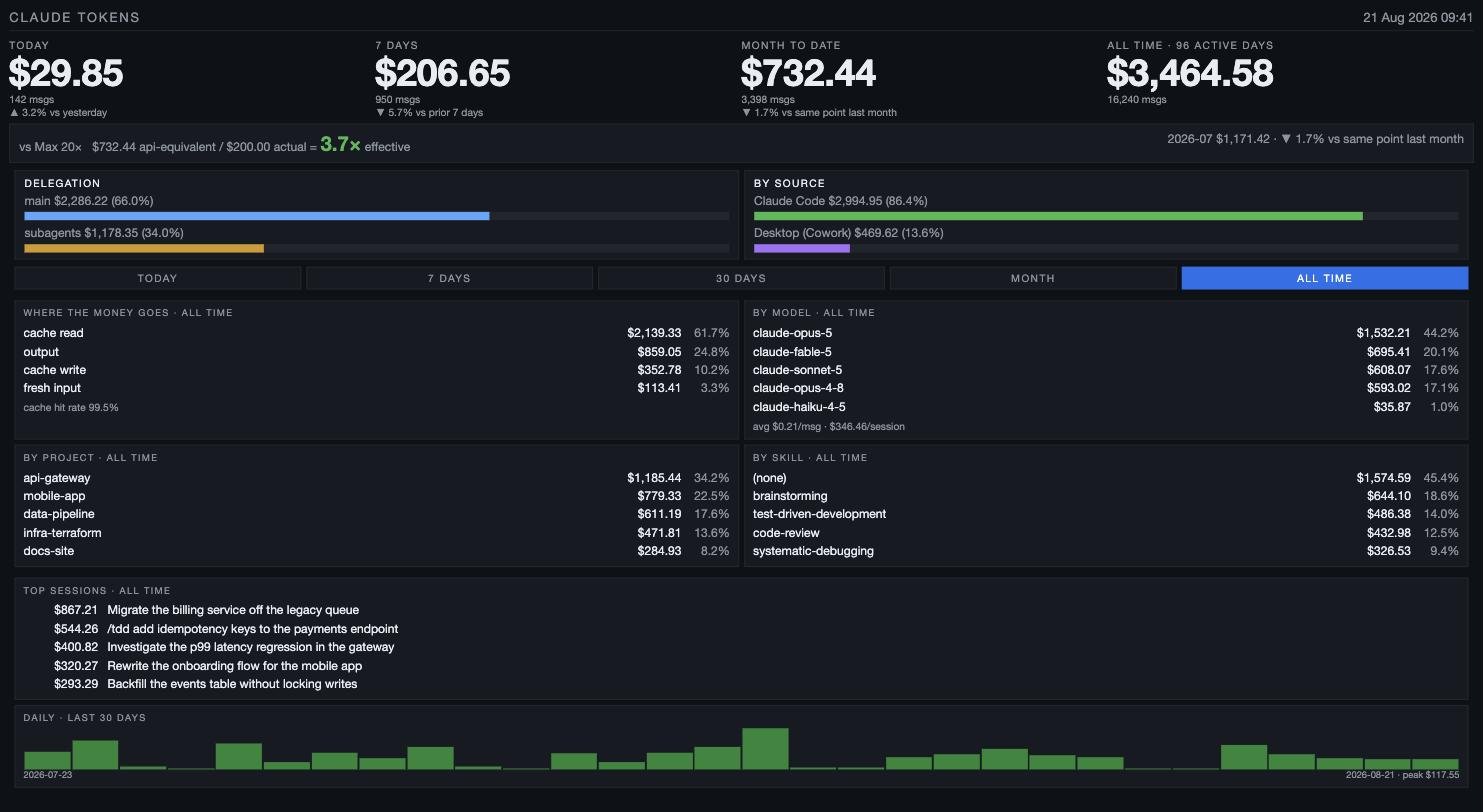
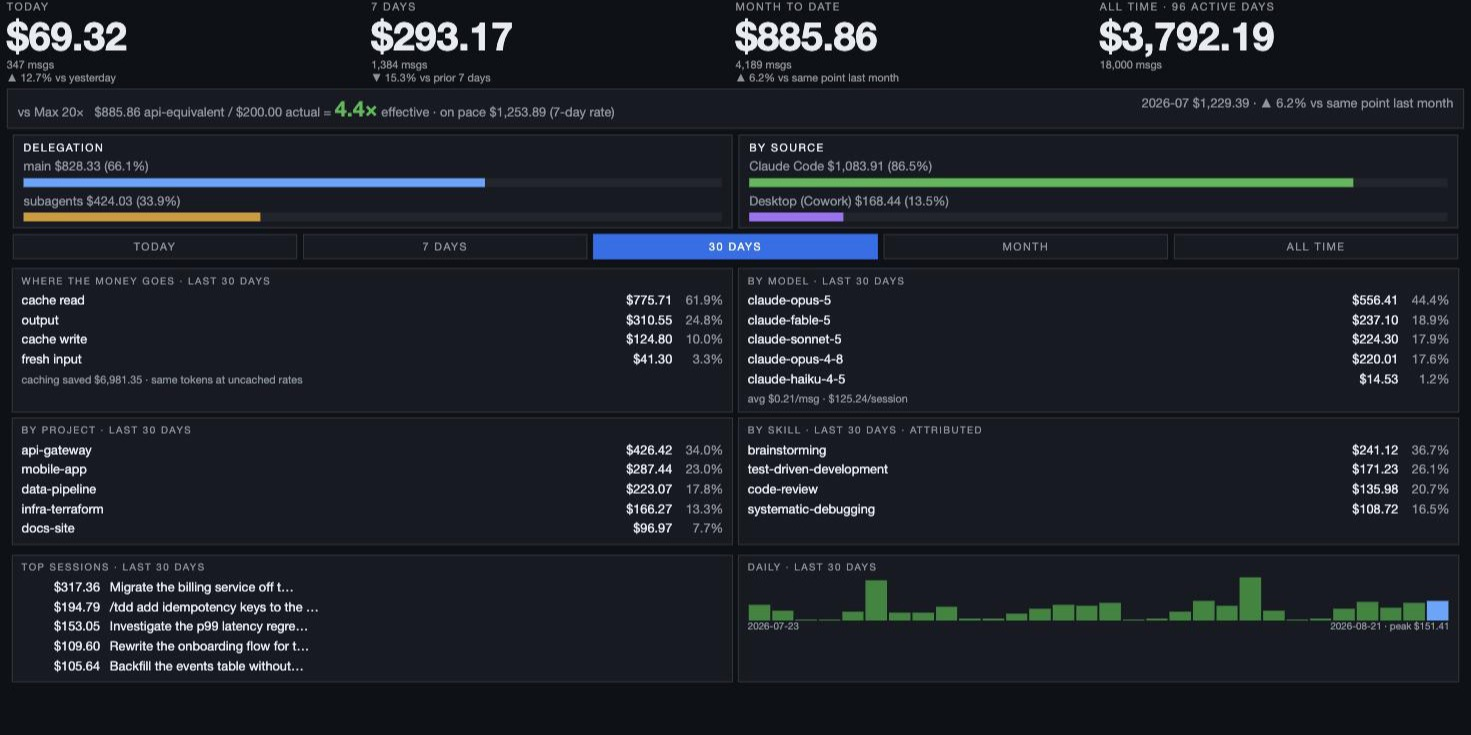
Fit the whole page above the fold; refresh the README
The daily chart sat below the fold on a 1024x768 iPad, which on a screen
nobody touches means it effectively did not exist.

Measured the page block by block in a 1024-wide frame rather than guessing
where the height was going:

    titlebar             24px
    hero row             87px
    plan band            43px
    delegation/source    98px
    range selector       26px
    grid (4 panels)     303px
    top sessions+daily  240px   <- stacked, one panel per row
    TOTAL               875px   vs a ~748px fold

Every other pair of panels already shared a row; these two did not. Putting
them side by side reclaimed 95px on its own and moved the chart's bottom
edge from off-screen to 712px. Trimming padding and margins — no font
sizes, since legibility from across a room is the entire point — took the
page to 747px. It now fits whole, with the 40px hero type untouched.

Session titles are capped at 34 characters rather than 62, since that
column is now half as wide.

The side-by-side layout is pinned by a test, and the test was mutation-
checked: re-stacking the two panels makes it fail. The first version of
that assertion counted <tr> tags and would have passed either way, because
the session list is itself a table.

README: the fold paragraph said the chart "sits just below the fold and
needs a short scroll", which is now false in the other direction. Replaced
with the measured 747px. Added a "what it shows, top to bottom" list under
[…]

diff --git a/tests/fixtures/golden_dashboard.html b/tests/fixtures/golden_dashboard.html
@@ -9,43 +9,43 @@
 <style>* { margin:0; padding:0; box-sizing:border-box; }
 body { background:#0e1116; color:#e6edf3;
        font-family:"Helvetica Neue", Helvetica, Arial, sans-serif;
-       font-size:16px; padding:10px; }
+       font-size:16px; padding:7px; }
 a { color:inherit; text-decoration:none; }
 .titlebar { font-size:14px; letter-spacing:2px; color:#8b949e;
             border-bottom:1px solid #30363d; padding-bottom:6px; margin-bottom:8px; }
 .titlebar .when { float:right; letter-spacing:0; }
 .warn { background:#3d1d1d; border:1px solid #f85149; color:#ffa198;
         padding:6px 10px; margin-bottom:8px; font-size:13px; }
-table.hero { width:100%; table-layout:fixed; border-collapse:collapse; margin-bottom:6px; }
+table.hero { width:100%; table-layout:fixed; border-collapse:collapse; margin-bottom:4px; }
 table.hero td { vertical-align:top; }
 .hlabel { font-size:11px; letter-spacing:1.5px; color:#8b949e; }
 .hvalue { font-size:40px; font-weight:bold; line-height:46px; }
 .hsub { font-size:11px; color:#8b949e; }
 .hdelta { font-size:11px; color:#8b949e; }
 .maxrow { background:#161b22; border:1px solid #30363d;
-          padding:7px 10px; margin-bottom:8px; font-size:13px; color:#8b949e; }
+          padding:6px 10px; margin-bottom:6px; font-size:13px; color:#8b949e; }
 .maxrow .mult { font-size:22px; font-weight:bold; color:#3fb950; }
 .maxrow .mom { float:right; }
 /* border-spacing matches table.grid so the bands line up with the panels
    below them; margin-bottom keeps the vertical rhythm the single full-width
    delegation band used to have. */
 table.ranges { width:100%; table-layout:fixed; border-collapse:separate;
-               border-spacing:6px 0; margin:0 0 6px 0; }
+               border-spacing:6px 0; margin:0 0 4px 0; }
 td.rangecell { padding:0; }
 a.range { display:block; background:#161b22; border:1px solid #30363d;
           padding:5px 0; text-align:center; font-size:11px; letter-spacing:1.5px;
           color:#8b949e; }
 a.range.on { background:#1f6feb; border-color:#1f6feb; color:#ffffff; }
 table.bands { width:100%; table-layout:fixed; border-collapse:separate;
-              border-spacing:6px 0; margin:0 0 8px 0; }
-td.band { background:#161b22; border:1px solid #30363d; padding:7px 10px;
+              border-spacing:6px 0; margin:0 0 6px 0; }
+td.band { background:#161b22; border:1px solid #30363d; padding:6px 10px;
           font-size:13px; color:#8b949e; vertical-align:top; }
 .bandtitle { color:#e6edf3; letter-spacing:1.5px; font-size:11px; margin-bottom:4px; }
-table.grid { width:100%; table-layout:fixed; border-collapse:separate; border-spacing:6px; }
+table.grid { width:100%; table-layout:fixed; border-collapse:separate; border-spacing:5px; }
 table.grid > tbody > tr > td { background:#161b22; border:1px solid #30363d;
-                               padding:7px 9px; vertical-align:top; }
+                               padding:6px 9px; vertical-align:top; }
 h2 { font-size:10px; letter-spacing:1.5px; color:#8b949e;
-     font-weight:normal; margin-bottom:5px; }
+     font-weight:normal; margin-bottom:4px; }
 table.rows { width:100%; border-collapse:collapse; }
 table.rows td { font-size:13px; padding:2px 0; white-space:nowrap; overflow:hidden; }
 td.amt { text-align:right; width:80px; }
@@ -53,7 +53,7 @@ td.pct { text-align:right; width:52px; color:#8b949e; }
 td.barcell { padding-left:8px; }
 .bar { background:#21262d; height:9px; }
 .fill { height:9px; }
-.note { font-size:11px; color:#8b949e; margin-top:5px; }
+.note { font-size:11px; color:#8b949e; margin-top:4px; }
 table.daily { width:100%; table-layout:fixed; border-collapse:collapse; }
 table.daily td { vertical-align:bottom; text-align:center; padding:0 1px; }
 .col { background:#238636; }
@@ -90,7 +90,9 @@ $41.15/session</div><div class="note">1 unpriced model(s), counted but not coste
 </tr>
 </tbody></table>
 <table class="grid"><tbody>
-<tr><td><h2>TOP SESSIONS &middot; ALL TIME</h2><table class="rows"><tr><td class="amt">$220.00</td><td style="padding-left:10px">/graphify refactor billing</td></tr><tr><td class="amt">$80.00</td><td style="padding-left:10px">(untitled session)</td></tr></table></td></tr>
-<tr><td><h2>DAILY &middot; LAST 3 DAYS</h2><table class="daily" style="height:44px"><tr><td><div class="col" style="height:17px"></div></td><td><div class="col" style="height:44px"></div></td><td><div class="col" style="height:21px"></div></td></tr></table><div class="dscale">2026-07-28<span style="float:right">2026-07-30 &middot; peak $25.50</span></div></td></tr>
+<tr>
+<td><h2>TOP SESSIONS &middot; ALL TIME</h2><table class="rows"><tr><td class="amt">$220.00</td><td style="padding-left:10px">/graphify refactor billing</td></tr><tr><td class="amt">$80.00</td><td style="padding-left:10px">(untitled session)</td></tr></table></td>
+<td><h2>DAILY &middot; LAST 3 DAYS</h2><table class="daily" style="height:44px"><tr><td><div class="col" style="height:17px"></div></td><td><div class="col" style="height:44px"></div></td><td><div class="col" style="height:21px"></div></td></tr></table><div class="dscale">2026-07-28<span style="float:right">2026-07-30 &middot; peak $25.50</span></div></td>
+</tr>
 </tbody></table>
 </body></html>

diff --git a/dashboard/render_html.py b/dashboard/render_html.py
@@ -14,49 +14,50 @@ from .models import Bar, DashboardData
 BAR_COLOURS = ("#58a6ff", "#d29922", "#3fb950", "#8b949e", "#a371f7")
 SOURCE_COLOURS = ("#3fb950", "#a371f7", "#58a6ff", "#d29922", "#8b949e")
 DAILY_CHART_HEIGHT_PX = 44
-SESSION_TITLE_MAX = 62
+#: Half-width column since TOP SESSIONS sits beside the daily chart.
+SESSION_TITLE_MAX = 34
 
 CSS = """
 * { margin:0; padding:0; box-sizing:border-box; }
 body { background:#0e1116; color:#e6edf3;
        font-family:"Helvetica Neue", Helvetica, Arial, sans-serif;
-       font-size:16px; padding:10px; }
+       font-size:16px; padding:7px; }
 a { color:inherit; text-decoration:none; }
 .titlebar { font-size:14px; letter-spacing:2px; color:#8b949e;
             border-bottom:1px solid #30363d; padding-bottom:6px; margin-bottom:8px; }
 .titlebar .when { float:right; letter-spacing:0; }
 .warn { background:#3d1d1d; border:1px solid #f85149; color:#ffa198;
         padding:6px 10px; margin-bottom:8px; font-size:13px; }
-table.hero { width:100%; table-layout:fixed; border-collapse:collapse; margin-bottom:6px; }
+table.hero { width:100%; table-layout:fixed; border-collapse:collapse; margin-bottom:4px; }
 table.hero td { vertical-align:top; }
 .hlabel { font-size:11px; letter-spacing:1.5px; color:#8b949e; }
 .hvalue { font-size:40px; font-weight:bold; line-height:46px; }
 .hsub { font-size:11px; color:#8b949e; }
 .hdelta { font-size:11px; color:#8b949e; }
 .maxrow { background:#161b22; border:1px solid #30363d;
-          padding:7px 10px; margin-bottom:8px; font-size:13px; color:#8b949e; }
+          padding:6px 10px; margin-bottom:6px; font-size:13px; color:#8b949e; }
 .maxrow .mult { font-size:22px; font-weight:bold; color:#3fb950; }
 .maxrow .mom { float:right; }
 /* border-spacing matches table.grid so the bands line up with the panels
    below them; margin-bottom keeps the vertical rhythm the single full-width
    delegation band used to have. */
 table.ranges { width:100%; table-layout:fixed; border-collapse:separate;
-               border-spacing:6px 0; margin:0 0 6px 0; }
+               border-spacing:6px 0; margin:0 0 4px 0; }
 td.rangecell { padding:0; }
 a.range { display:block; background:#161b22; border:1px solid #30363d;
           padding:5px 0; text-align:center; font-size:11px; letter-spacing:1.5px;
           color:#8b949e; }
 a.range.on { background:#1f6feb; border-color:#1f6feb; color:#ffffff; }
 table.bands { width:100%; table-layout:fixed; border-collapse:separate;
-              border-spacing:6px 0; margin:0 0 8px 0; }
-td.band { background:#161b22; border:1px solid #30363d; padding:7px 10px;
+              border-spacing:6px 0; margin:0 0 6px 0; }
+td.band { background:#161b22; border:1px solid #30363d; padding:6px 10px;
           font-size:13px; color:#8b949e; vertical-align:top; }
 .bandtitle { color:#e6edf3; letter-spacing:1.5px; font-size:11px; margin-bottom:4px; }
-table.grid { width:100%; table-layout:fixed; border-collapse:separate; border-spacing:6px; }
+table.grid { width:100%; table-layout:fixed; border-collapse:separate; border-spacing:5px; }
 table.grid > tbody > tr > td { background:#161b22; border:1px solid #30363d;
-                               padding:7px 9px; vertical-align:top; }
+                               padding:6px 9px; vertical-align:top; }
 h2 { font-size:10px; letter-spacing:1.5px; color:#8b949e;
-     font-weight:normal; margin-bottom:5px; }
+     font-weight:normal; margin-bottom:4px; }
 table.rows { width:100%; border-collapse:collapse; }
 table.rows td { font-size:13px; padding:2px 0; white-space:nowrap; overflow:hidden; }
 td.amt { text-align:right; width:80px; }
@@ -64,7 +65,7 @@ td.pct { text-align:right; width:52px; color:#8b949e; }
 td.barcell { padding-left:8px; }
 .bar { background:#21262d; height:9px; }
 .fill { height:9px; }
-.note { font-size:11px; color:#8b949e; margin-top:5px; }
+.note { font-size:11px; color:#8b949e; margin-top:4px; }
 table.daily { width:100%; table-layout:fixed; border-collapse:collapse; }
 table.daily td { vertical-align:bottom; text-align:center; padding:0 1px; }
 .col { background:#238636; }
@@ -386,8 +387,10 @@ def render(
 </tr>
 </tbody></table>
 <table class="grid"><tbody>
-<tr><td><h2>TOP SESSIONS &middot; {escape(data.range_label)}</h2>{_session_rows(data.top_sessions)}</td></tr>
-<tr><td><h2>DAILY &middot; LAST {len(data.daily)} DAYS</h2>{_daily(data)}</td></tr>
+<tr>
+<td><h2>TOP SESSIONS &middot; {escape(data.range_label)}</h2>{_session_rows(data.top_sessions)}</td>
+<td><h2>DAILY &middot; LAST {len(data.daily)} DAYS</h2>{_daily(data)}</td>
+</tr>
 </tbody></table>
 </body></html>
 """

diff --git a/tests/test_render_html.py b/tests/test_render_html.py
@@ -519,3 +519,24 @@ def test_plan_label_is_html_escaped():
     out = render_html.render(_bare_data(plan_label="<script>x</script>"))
     assert "<script>x</script>" not in out
     assert "&lt;script&gt;" in out
+
+
+def test_top_sessions_and_daily_share_one_grid_row():
+    """They were stacked, which cost 240px of a 748px fold and pushed the
+    daily chart off the iPad's first screen. Side by side the whole page
+    fits. Pinned because re-stacking them would silently undo that."""
+    data = aggregate.build([rec("m1", "2026-07-30")], {}, now=NOW)
+    out = render_html.render(data)
+    # Counting <tr> is no good here: the session list is itself a table.
+    # Assert the daily cell opens immediately after the sessions cell closes,
+    # which is only true when they share a row.
+    assert "</td>\n<td><h2>DAILY" in out
+
+
+def test_session_titles_are_truncated_for_the_narrower_column():
+    """Half the width now, so the cap came down with it."""
+    long_title = "x" * 200
+    data = aggregate.build([rec("m1", "2026-07-30")], {"sess-a": long_title}, now=NOW)
+    out = render_html.render(data)
+    assert "x" * (render_html.SESSION_TITLE_MAX + 1) not in out
+    assert "…" in out

diff --git a/README.md b/README.md
@@ -22,6 +22,27 @@ Everything stays on your machine: no account, no telemetry, no network calls.
 `python3 tools/demo_page.py demo.html` and open the file — a way to see the
 layout before you have any history of your own.*
 
+**What it shows, top to bottom:**
+
+- **Live burn rate** — `$8.03/hr · idle 0m` in the titlebar. Cost per hour of
+  *active* time today; the only figure that changes between two refreshes.
+- **Four windows** — today, last 7 days, month to date, all time, each with a
+  message count and a like-for-like delta (vs yesterday, vs the prior 7 days,
+  vs the same point last month).
+- **What it would cost vs what you pay** — your api-equivalent spend against
+  your actual plan, the resulting multiple, and where the month is **on pace**
+  to land.
+- **Delegation** — how much of the spend came from subagents rather than from
+  your own turns.
+- **By source** — Claude Code vs Claude Desktop (Cowork).
+- **A date range you can pick** — today / 7 days / 30 days / this month / all
+  time, as plain links. Everything below re-scopes; the top row never moves.
+- **Where the money goes** — cache read vs output vs cache write vs fresh
+  input, and what caching saved you.
+- **By model, project, skill and session** — which models, repos, skills and
+  individual pieces of work cost the most.
+- **A daily chart** — the last 30 active days, with today picked out.
+
 ## Requirements
 
 Python 3.11 or newer, and Claude Code installed and used at least once — the
@@ -84,10 +105,10 @@ properties, no `rem` units and no usable ES5 — so the layout is tables and
 that as a compatibility lint, so it cannot quietly regress. If it renders
 there, it renders anywhere.
 
-The page is laid out for a width of **1024**. It is currently about **875px
-tall**, so on a 1024×768 display the daily chart sits just below the fold and
-needs a short scroll — measured, not estimated. Everything above it, including
-the hero row and the range selector, is visible without scrolling.
+The page is laid out for a width of **1024** and is **747px tall**, so all of
+it — including the daily chart — fits a 1024×768 screen without scrolling.
+Measured in a 1024-wide frame, not estimated. It was 875px until the top
+sessions and daily panels were put side by side rather than stacked.
 
 ### 2. A Raspberry Pi driving a small screen
 
